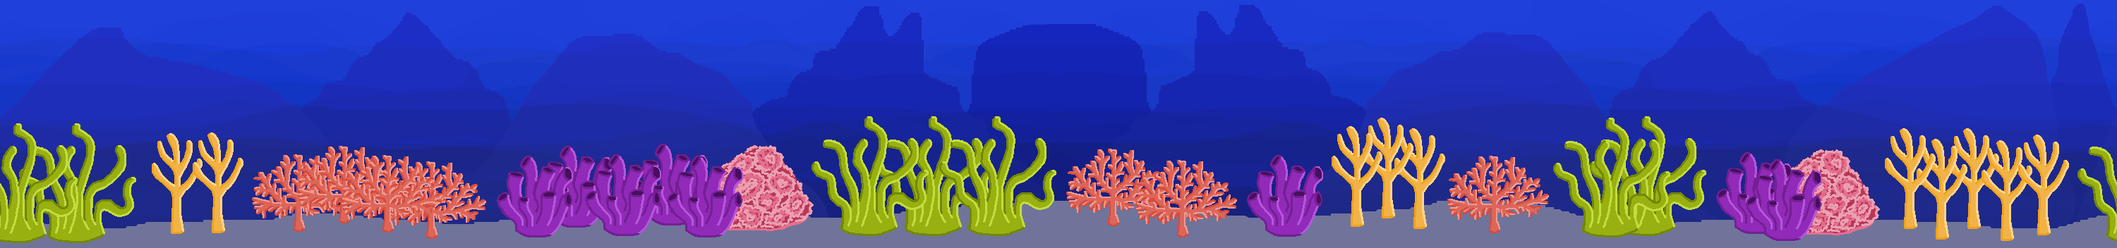
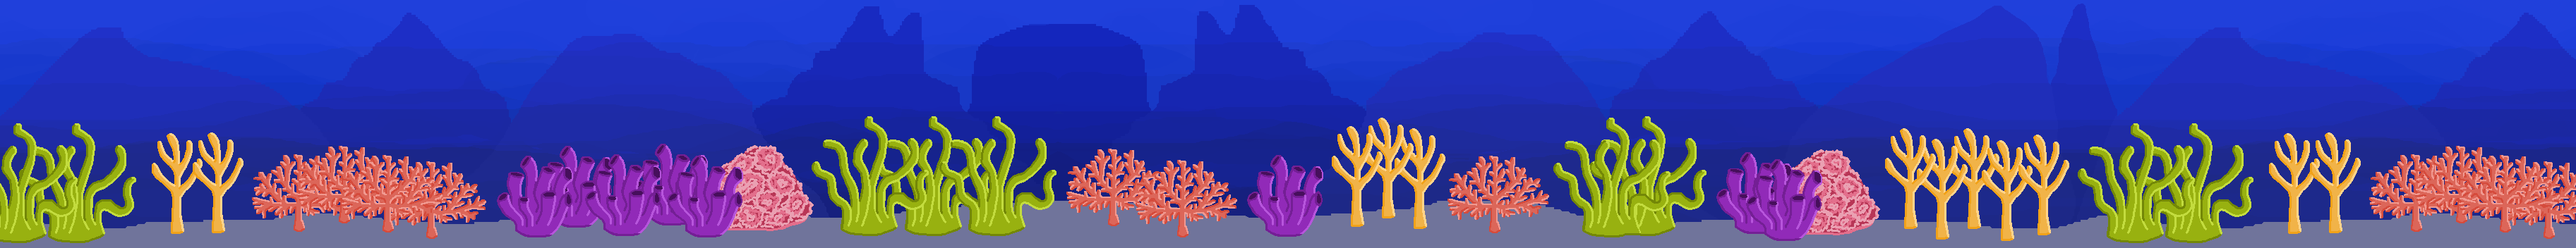
Add background and scuba movement

diff --git a/src/index.js b/src/index.js
@@ -1,17 +1,90 @@
-import "./styles/index.scss";
-import "./images/nemo.png";
-import "./images/rainbow_fish.png";
-import "./images/turtle.png";
-import "./images/seahorse.png";
-import "./images/jellyfish.png";
-import "./images/octopus.png";
-import "./images/glass_bottle.png";
-import "./images/straw2.png";
-import "./images/solo_cup.png";
-import "./images/plastic_bag.png";
-import "./images/scuba_2.png";
-import "./images/backdrop.png";
+// import "./styles/index.scss";
+// import "./images/nemo.png";
+// import "./images/rainbow_fish.png";
+// import "./images/turtle.png";
+// import "./images/seahorse.png";
+// import "./images/jellyfish.png";
+// import "./images/octopus.png";
+// import "./images/glass_bottle.png";
+// import "./images/straw.png";
+// import "./images/solo_cup.png";
+// import "./images/plastic_bag.png";
+// import "./images/scuba.png";
+// import "./images/backdrop.png";
 
 // import canvasExample from "./scripts/canvas";
 // import Square from "./scripts/square";
 // ^how to import canvas class examples
+
+
+import "./styles/index.scss";
+
+const canvas = document.getElementById('canvas');
+const ctx = canvas.getContext('2d');
+canvas.width = 650;
+canvas.height = 352;
+
+const keys = [];
+
+const scuba = {
+    x: 20,
+    y: 40,
+    width: 242,
+    height: 192,
+    // frameX: 0,
+    // frameY: 0,
+    // ^need these if/when adding sprite sheets
+    speed: 3
+    // speed is how many px it is moving
+    // moving: false
+};
+
+const scubaSprite = new Image();
+scubaSprite.src = "../src/images/scuba.png";
+
+const background = new Image();
+background.src = "../src/images/backdrop.png";
+
+function drawSprite(img, sX, sY, sW, sH, dX, dY, dW, dH) {
+  ctx.drawImage(img, sX, sY, sW, sH, dX, dY, dW, dH);
+}
+
+let position = 0;
+function animate() {
+  // ctx.clearRect(0, 0, canvas.width, canvas.height);
+  if (Math.abs(position) >= 3000) {
+    position = 0;
+  }
+  ctx.drawImage(background, position, 0, 3650, canvas.height);
+  drawSprite(scubaSprite, 0, 0, scuba.width, scuba.height, scuba.x, scuba.y, scuba.width, scuba.height)
+  moveScuba();
+  requestAnimationFrame(animate);
+  position-=2;
+}
+
+animate();
+
+window.addEventListener("keydown", function(e) {
+  keys[e.key] = true;
+});
+
+window.addEventListener("keyup", function(e) {
+  delete keys[e.key];
+});
+
+function moveScuba(){
+  if (keys['ArrowUp'] && scuba.y > -28) {
+    scuba.y -= scuba.speed;
+  }
+  if (keys['ArrowDown'] && scuba.y < 156) {
+    scuba.y += scuba.speed;
+  }
+  if (keys['ArrowLeft'] && scuba.x >= 3) {
+    scuba.x -= scuba.speed;
+  }
+  if (keys['ArrowRight'] && scuba.x <= 373) {
+    scuba.x += scuba.speed;
+  }
+}
+
+

diff --git a/index.html b/index.html
@@ -9,8 +9,8 @@
   </head>
 
   <body>
-    <canvas id="canvas1"></canvas>
-    <!-- <script src="./dist/main.js"></script> -->
-    <script src="./src/scripts/script.js"></script>
+    <canvas id="canvas"></canvas>
+    <!-- <img class="backdrop" src="./src/images/backdrop.png" id="backdrop" /> -->
+    <script src="./dist/main.js"></script>
   </body>
 </html>

diff --git a/src/styles/index.scss b/src/styles/index.scss
@@ -1,11 +1,10 @@
-#canvas1 {
-  width: 800px;
-  height: 500px;
+#canvas {
+  width: 650px;
+  height: 352px;
   border: 1px solid black;
   background: darkblue;
   position: absolute;
   top: 50%;
   left: 50%;
   transform: translate(-50%, -50%);
-  
 }
